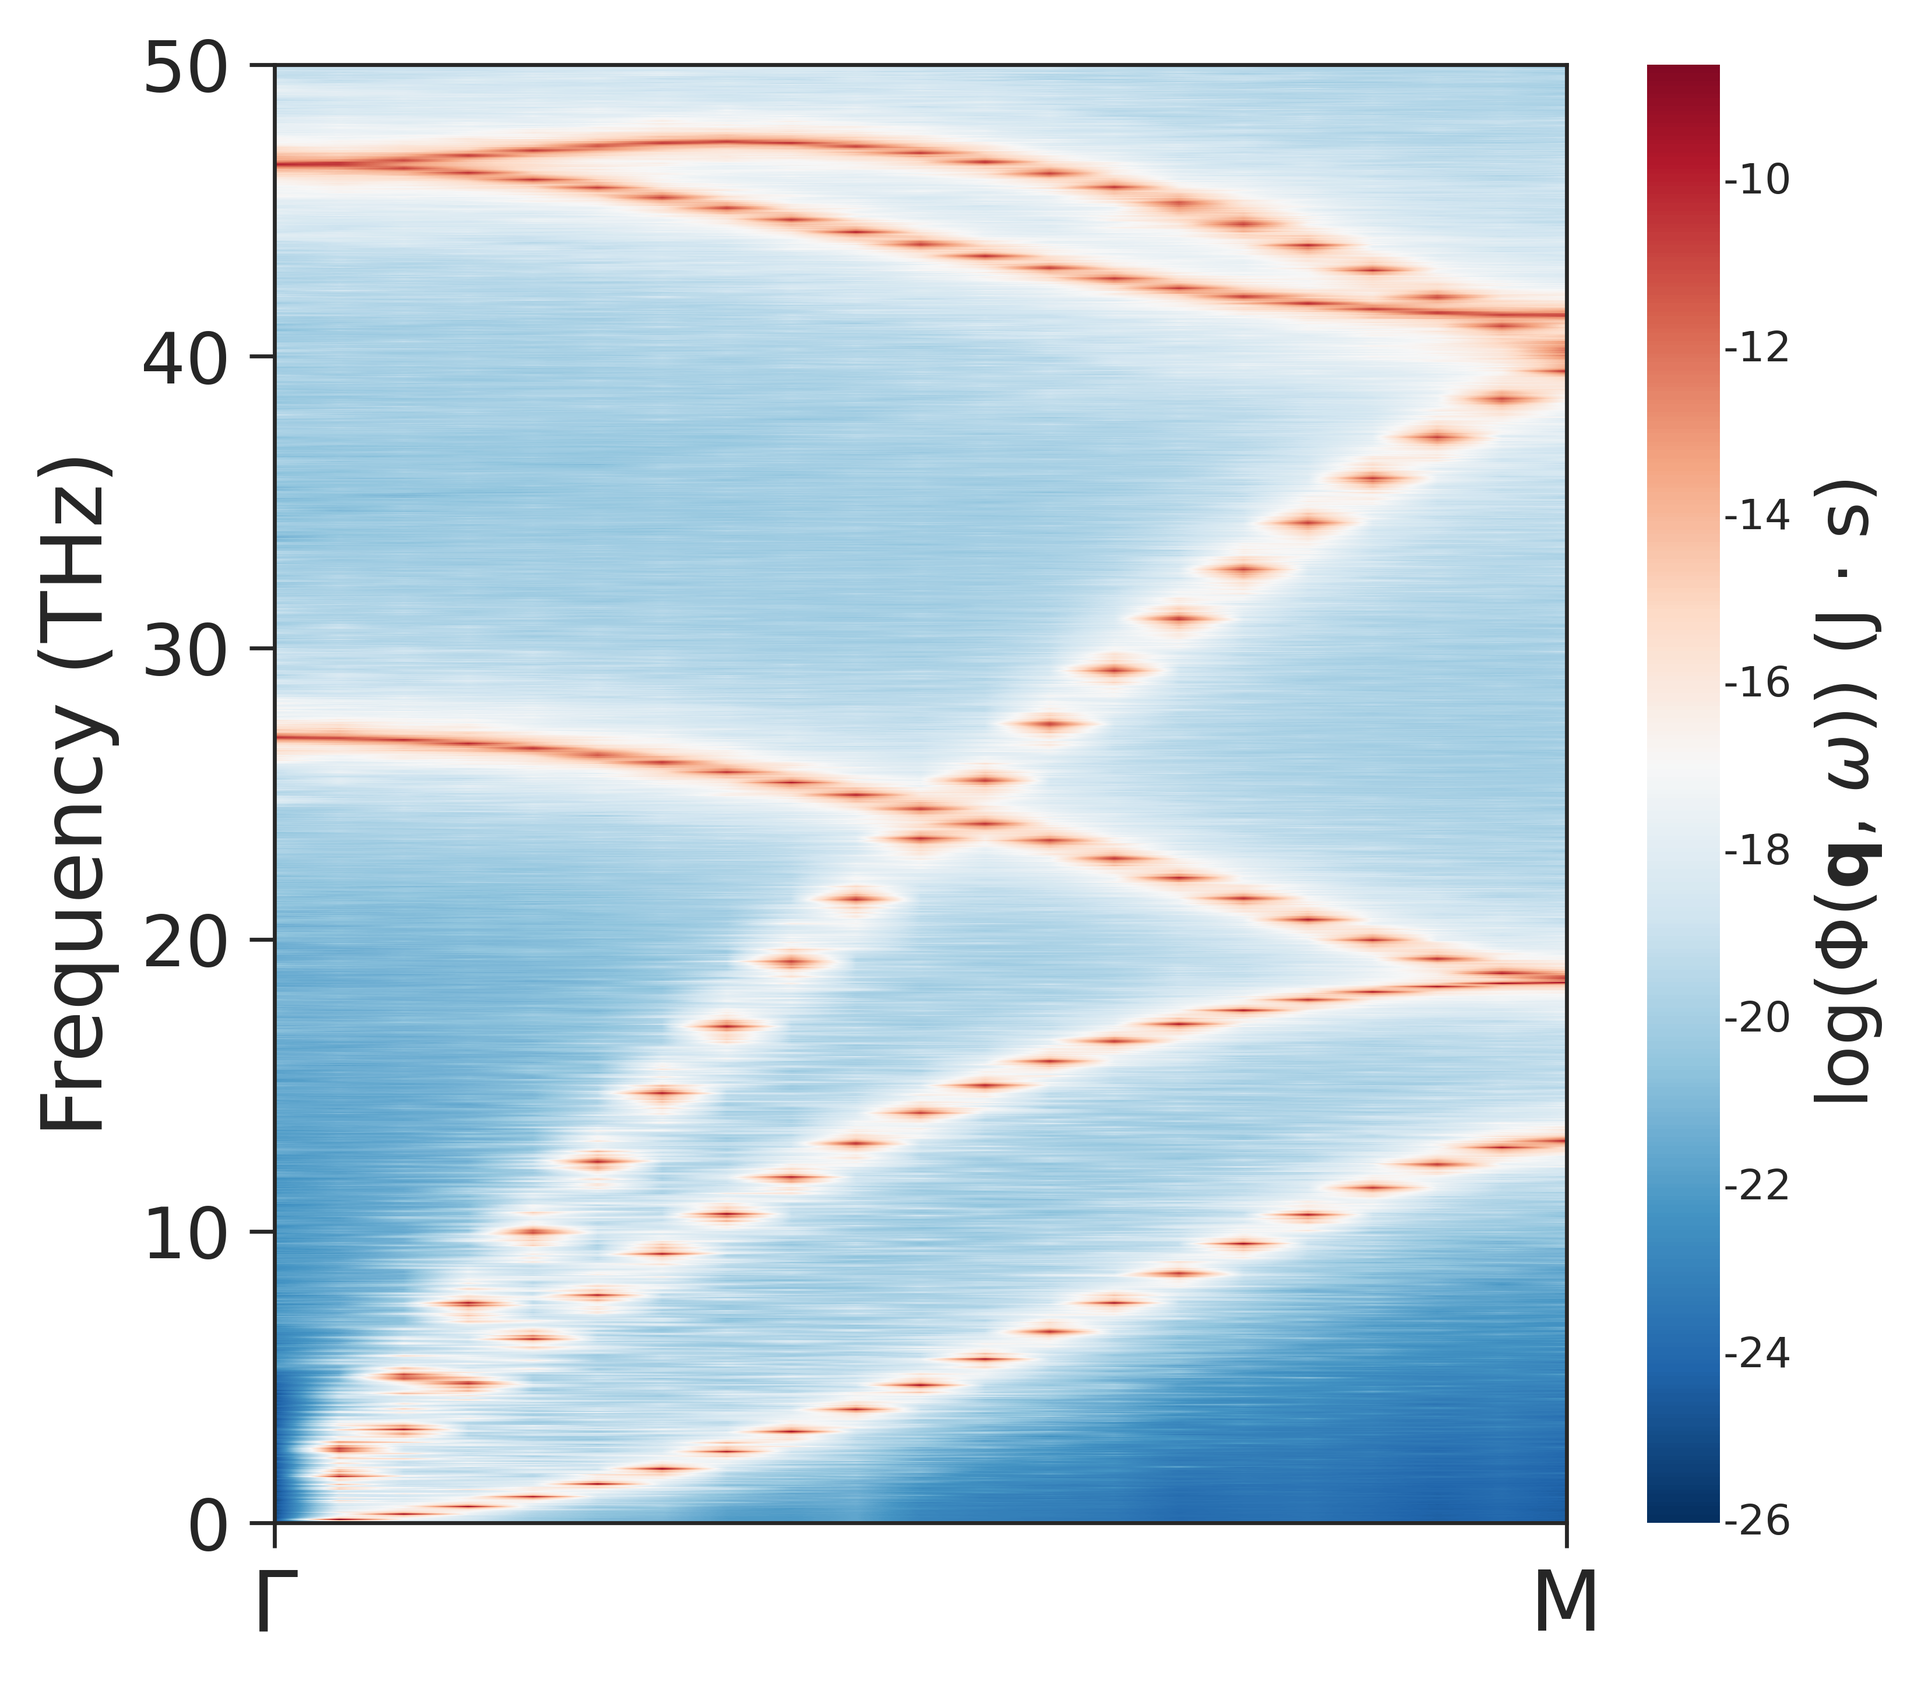
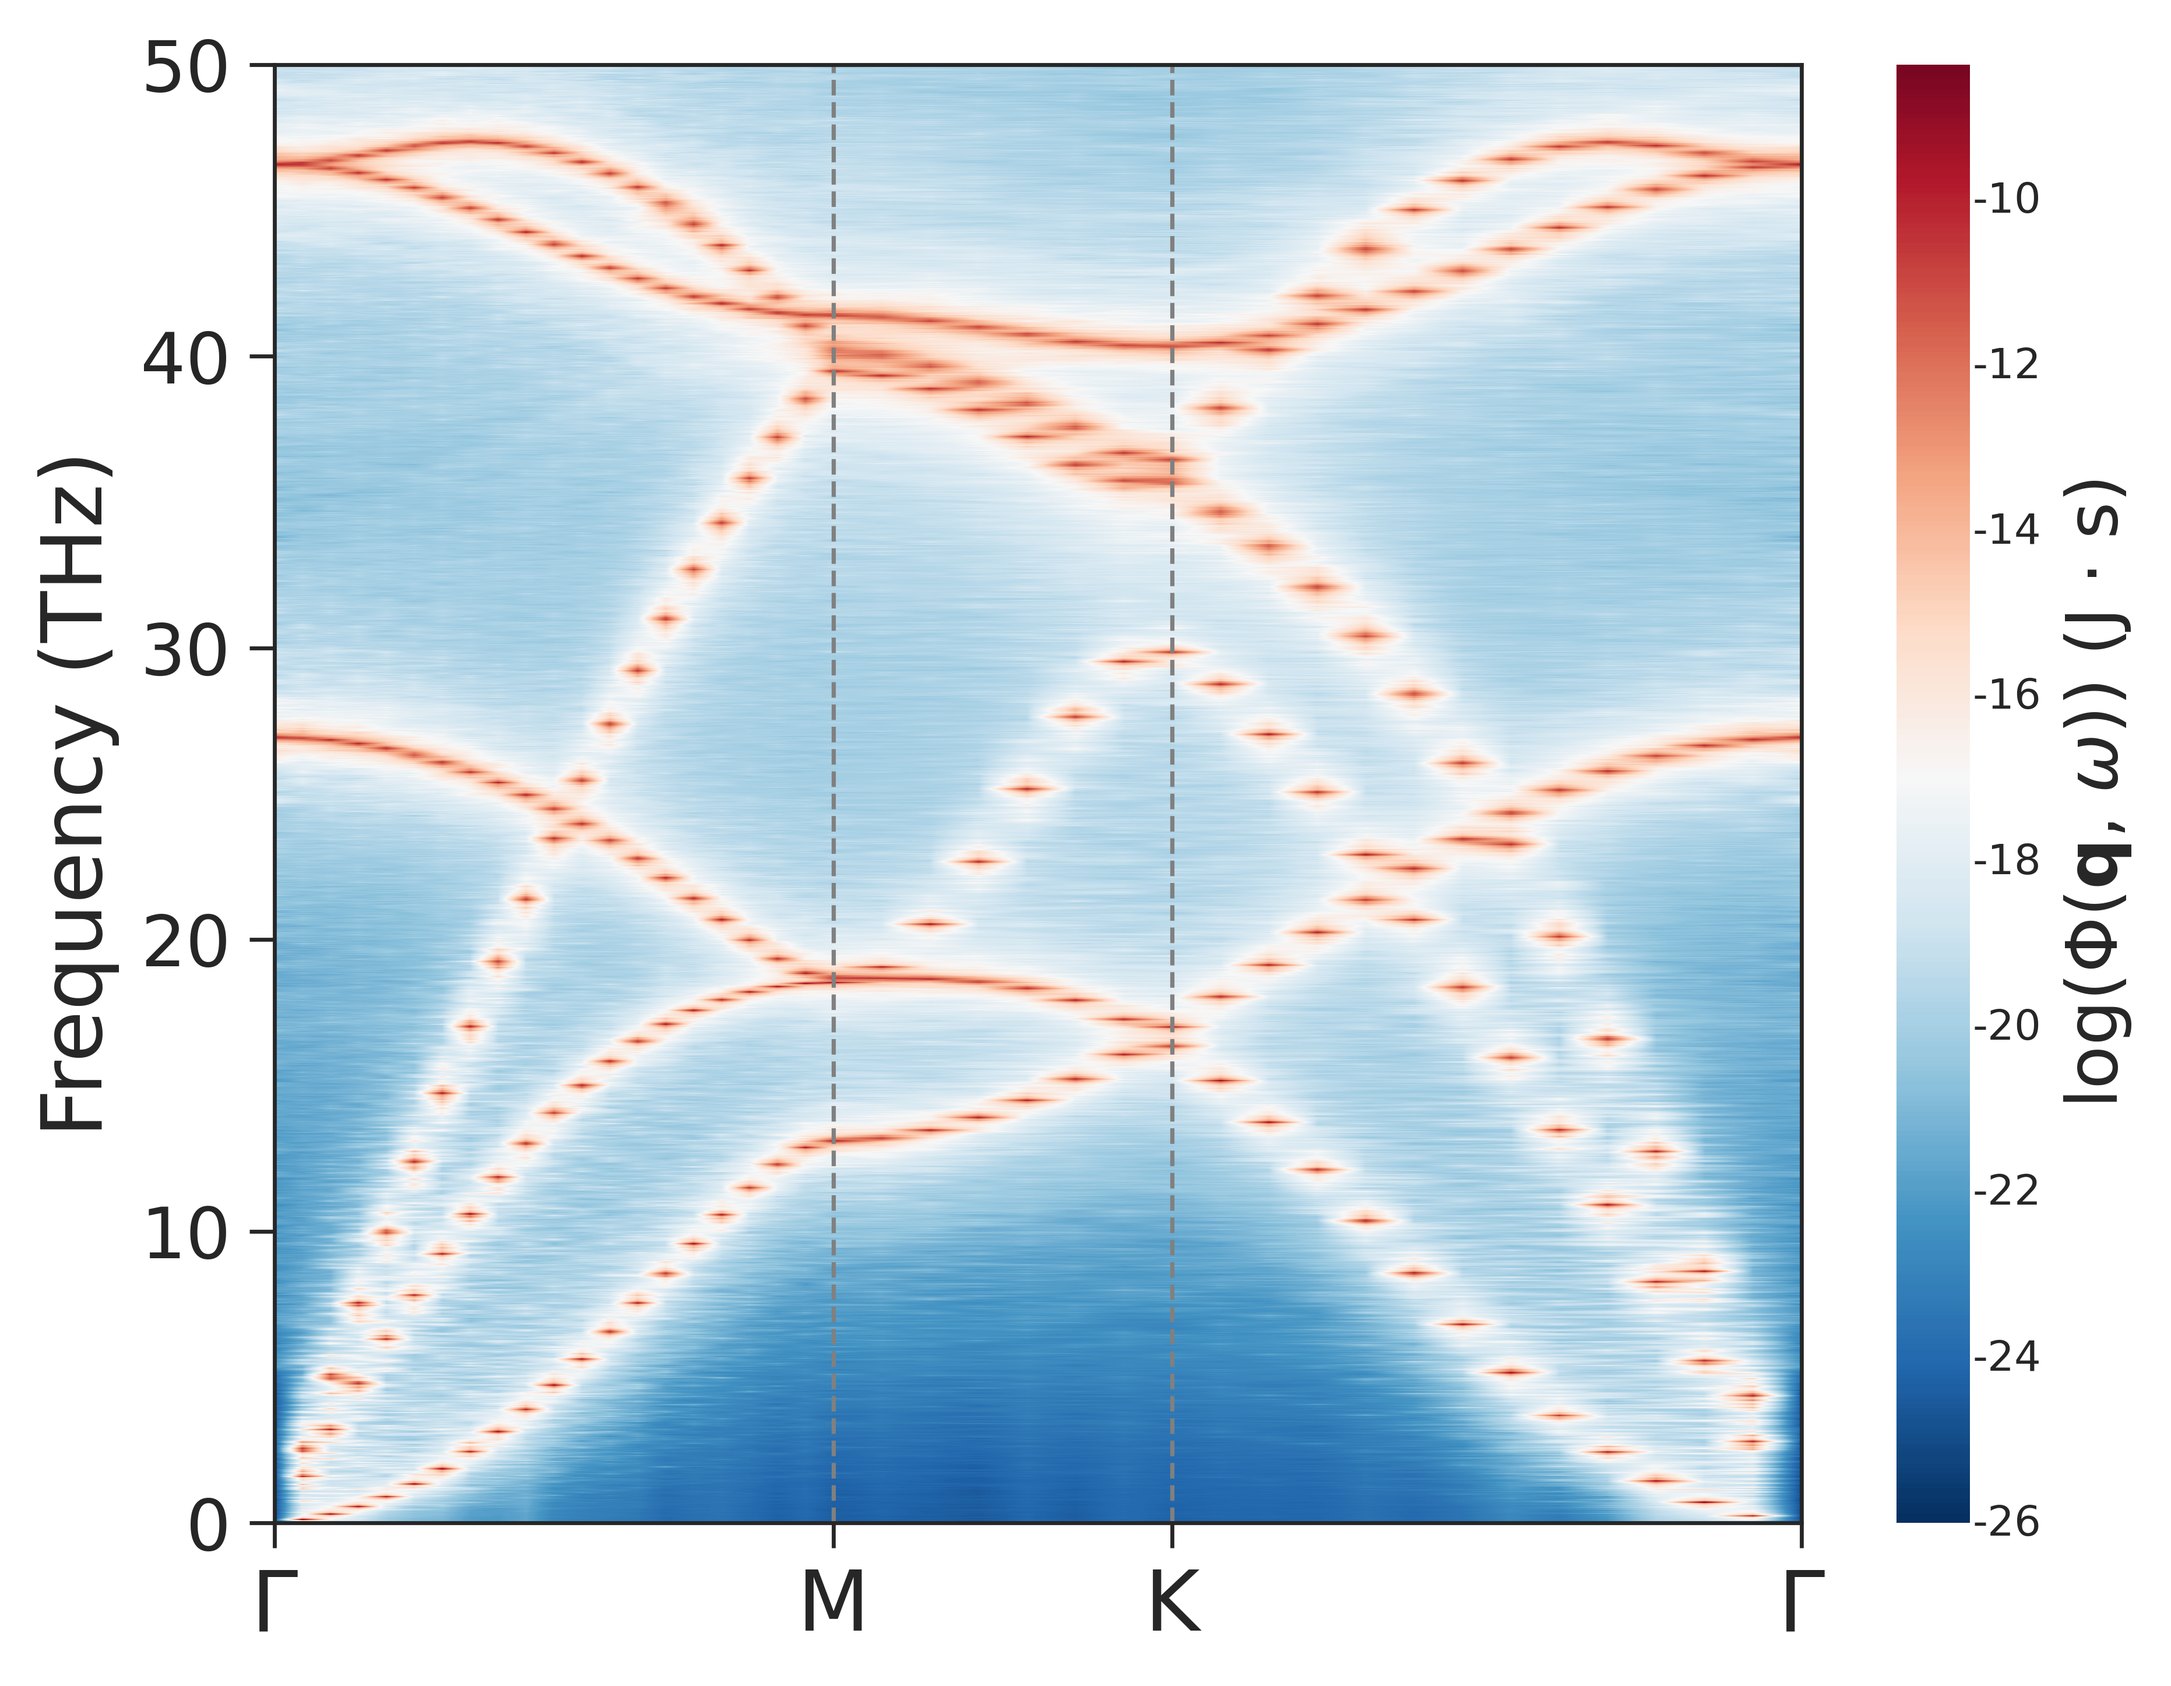
update examples

diff --git a/example/In_plane_graphene_gpumd/README.md b/example/In_plane_graphene_gpumd/README.md
@@ -1,6 +1,6 @@
-# pySED Tutorial: Calculating Spectral Energy Density (SED) for a CNT Example with GPUMD
+# pySED Tutorial: Calculating Spectral Energy Density (SED) for In-Plane Graphene Dispersion
 
-This guide walks you through using **pySED** to compute the **Spectral Energy Density (SED)** of a **Carbon Nanotube (CNT)** system entirely in **GPUMD**.
+This guide walks you through using **pySED** to compute the **Spectral Energy Density (SED)** of a **in-plane phonon dispersion in graphene** system entirely in **GPUMD**.
 
 It is strongly recommended that you reproduce this tutorial **exactly** before applying the method to your own system.
 
@@ -39,15 +39,15 @@ def generate_required_files(input_file, supercell):
     structure.replicate_supercell(supercell=supercell)
 
     # Write xyz files for gpumd
-    structure.write_xyz(filename='model.xyz', pbc="T T T")
+    structure.write_xyz(filename='model.xyz', pbc="T T F")
     
     # Write basis.in files for further used
     structure.write_lattice_basis_file()
 
 if __name__ == "__main__":
 
-    file_name = 'POSCAR_CNT'                              ## The in file for lammps
-    supercell = (1, 1, 160)
+    file_name = 'POSCAR_graphene'                              ## The in file for lammps
+    supercell = (40, 40, 1)
     generate_required_files(file_name, supercell)
 
 ```
@@ -59,25 +59,23 @@ Maybe one can modify the **[run.in]()**
 ```python
 
 potential      nep.txt
-dftd3          pbe  12  6
 velocity       300
 
-ensemble npt_mttk temp 300 300 z 0 0
-time_step      1
-dump_thermo    20000
-dump_position  50000
-run            500000
+#ensemble       npt_scr 300 300 100 0 0 0 0 0 0 20 20 20 20 20 20 1000
+#time_step      1
+#dump_thermo    10000
+#dump_position  100000
+#run            1000000
 
 ######### Nose-Hoover ###############
 ensemble       nvt_nhc   300    300   100
 time_step      1
 dump_thermo    20000
-dump_position  50000
-run            500000
+dump_position  100000
+run            1000000
 
 ensemble       nve
-dump_exyz      8     1
-#dump_netcdf   10     1
+dump_exyz      10     1
 run            500000
 
 ```
@@ -92,3 +90,14 @@ One can modify the **input_SED.in** and play with it.
 
 
 
+- [x] **4. Compare SED with Lattice Dynamics (LD) Calculations
+
+This example also provides a method to compare SED results with lattice dynamics (LD) calculations.
+
+The relevant scripts are located in the `SED/compare_LD/` directory:
+-   The `get_phonon_dispersion.py` script uses the **NEP** potential to calculate the phonon dispersion. This script utilizes both the `calorine` and `phonopy` packages.
+-   The `plot_phonon_dis_NEP_SED.py` script is used to plot and compare the SED results obtained from GPUMD with the phonon dispersion curves calculated from lattice dynamics.
+
+The final output figure (`Graphene.png`) should show an excellent agreement between the SED spectrum (background colormap) and the LD-calculated phonon branches (white dashed lines).
+
+![Comparison of SED and LD for Graphene](https://github.com/Tingliangstu/pySED/blob/main/example/In_plane_graphene_gpumd/SED/compare_LD/Graphene.png)
